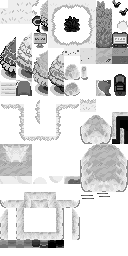
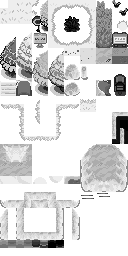
Avance con metatiles y animaciones
Falta un frame de animación de playa

Changed region(s): [[0.625, 0.4375, 0.875, 0.5625]]

diff --git a/include/constants/metatile_labels.h b/include/constants/metatile_labels.h
@@ -405,8 +405,16 @@
 #define METATILE_PetalburgGym_SlidingDoor_Frame4  0x21C
 
 // gTileset_Petalburg
-#define METATILE_Petalburg_Door_BirchsLab   0x249
-#define METATILE_Petalburg_Door_Littleroot  0x248
+#define METATILE_Petalburg_Door_BirchsLab                            0x249
+#define METATILE_Petalburg_Door_Littleroot                           0x248
+#define METATILE_Petalburg_METATILE_PetalburgGym_Door                0x224
+#define METATILE_Petalburg_METATILE_PetalburgGym_RoomEntrance_Left   0x210
+#define METATILE_Petalburg_METATILE_PetalburgGym_RoomEntrance_Right  0x211
+#define METATILE_Petalburg_METATILE_PetalburgGym_SlidingDoor_Frame0  0x218
+#define METATILE_Petalburg_METATILE_PetalburgGym_SlidingDoor_Frame1  0x219
+#define METATILE_Petalburg_METATILE_PetalburgGym_SlidingDoor_Frame2  0x21A
+#define METATILE_Petalburg_METATILE_PetalburgGym_SlidingDoor_Frame3  0x21B
+#define METATILE_Petalburg_METATILE_PetalburgGym_SlidingDoor_Frame4  0x21C
 
 // gTileset_PokemonCenter
 #define METATILE_PokemonCenter_CounterBarrier            0x25D
